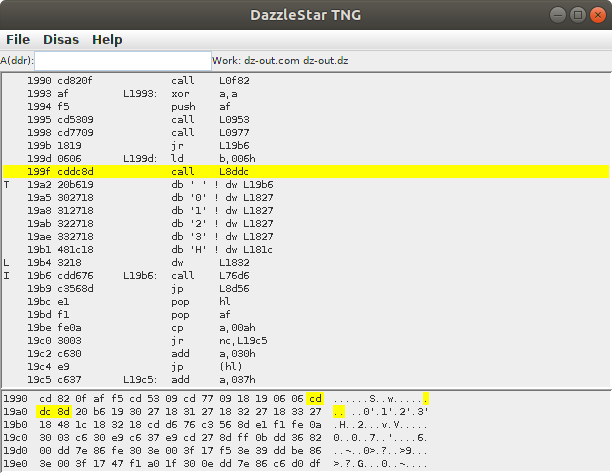
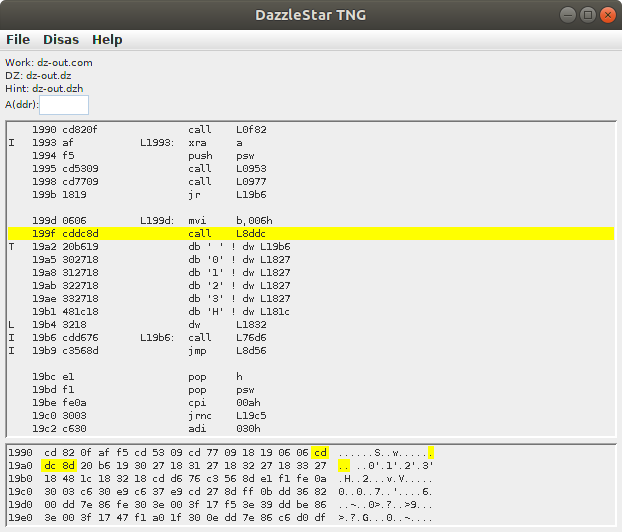
Cleanup layout

Changed region(s): [[0.0, 0.0, 1.0, 1.0], [0.2173, 0.5624, 0.2484, 0.592]]

diff --git a/dz/docs/dzmenu.html b/dz/docs/dzmenu.html
@@ -45,7 +45,7 @@ See <A HREF="dzhints.html">Hint Syntax</A>.
 <DT>File->Quit</DT>
 <DD>Discards any current disassembly and exits the program.
 </DD>
-
+<P>
 <DT>Disas->Scan from here</DT>
 <DD>(Re)Start auto-code scan from current location.</DD>
 <DT>Disas->Scan Hints</DT>
@@ -73,7 +73,7 @@ current breaks, building a new symbol table.
 Menu reflects the opposite of the current mnemonics, i.e.
 what the mnemonics will be changed to.
 </DD>
-
+<P>
 <DT>Help->About</DT>
 <DD>Display basic information and credits
 <DT>Help->Show Help</DT>

diff --git a/dz/DazzleStar.java b/dz/DazzleStar.java
@@ -63,7 +63,9 @@ public class DazzleStar implements DZCodePainter, DZDumpPainter, Memory,
 	DZDumpPane dump;
 	Font font;
 	JTextField dest;
-	JLabel stat;
+	JLabel statCom;
+	JLabel statDZ;
+	JLabel statHint;
 	JPanel src_pan;
 	JTextField src_pat;
 	JRadioButton src_hex;
@@ -169,6 +171,16 @@ public class DazzleStar implements DZCodePainter, DZDumpPainter, Memory,
 		frame.getContentPane().setName("DazzleStar TNG");
 		frame.setDefaultCloseOperation(JFrame.EXIT_ON_CLOSE); // TODO: save!
 		frame.addKeyListener(this);
+		GridBagLayout gb = new GridBagLayout();
+		GridBagConstraints gc = new GridBagConstraints();
+		gc.fill = GridBagConstraints.NONE;
+		gc.gridx = 0;
+		gc.gridy = 0;
+		gc.weightx = 0;
+		gc.weighty = 0;
+		gc.gridwidth = 1;
+		gc.gridheight = 1;
+		gc.anchor = GridBagConstraints.WEST;
 		// This allows TAB to be sent
 		frame.setFocusTraversalKeysEnabled(false);
 		java.net.URL url = this.getClass().getResource("docs/dzhelp.html");
@@ -246,7 +258,13 @@ public class DazzleStar implements DZCodePainter, DZDumpPainter, Memory,
 		jobActive(false);
 		// This is the main container of everything (exc. menus)
 		JPanel pan = new JPanel();
-		pan.setLayout(new BoxLayout(pan, BoxLayout.Y_AXIS));
+		pan.setLayout(gb);
+		JPanel pn = new JPanel();
+		pn.setPreferredSize(new Dimension(5, 5));
+		gb.setConstraints(pn, gc);
+		pan.add(pn);
+		++gc.gridx;
+		++gc.gridy;
 
 		// TODO: get Properties...
 		hilite = Color.yellow;
@@ -284,30 +302,66 @@ public class DazzleStar implements DZCodePainter, DZDumpPainter, Memory,
 		dest.setEnabled(false);
 		dest.setFont(font2);
 		dest.addActionListener(this);
-		stat = new JLabel();
-		stat.setPreferredSize(new Dimension(400, 20));
-		stat.setFont(font2);
+		statCom = new JLabel("Work:");
+		//statCom.setPreferredSize(new Dimension(300, 20));
+		statCom.setFont(font2);
+		statDZ = new JLabel("DZ:");
+		//statDZ.setPreferredSize(new Dimension(300, 20));
+		statDZ.setFont(font2);
+		statHint = new JLabel("Hint:");
+		//statHint.setPreferredSize(new Dimension(300, 20));
+		statHint.setFont(font2);
+		gb.setConstraints(statCom, gc);
+		pan.add(statCom);
+		++gc.gridy;
+		gb.setConstraints(statDZ, gc);
+		pan.add(statDZ);
+		++gc.gridy;
+		gb.setConstraints(statHint, gc);
+		pan.add(statHint);
+		++gc.gridy;
+		pn = new JPanel();
 		JLabel lb = new JLabel("A(ddr):");
 		lb.setFont(font2);
-		JPanel pn = new JPanel();
 		pn.setLayout(new BoxLayout(pn, BoxLayout.X_AXIS));
 		pn.add(lb);
 		pn.add(dest);
-		pn.add(stat);
+		gb.setConstraints(pn, gc);
 		pan.add(pn);
+		++gc.gridy;
 
+		pn = new JPanel();
+		pn.setPreferredSize(new Dimension(5, 5));
+		gb.setConstraints(pn, gc);
+		pan.add(pn);
+		++gc.gridy;
 		code = new DZCodePane(this);
 		code.setFont(font);
 		setupFont();	// needs 'code' JPanel
 		code.setPreferredSize(new Dimension(_fw * ln_width + 2 * bd_width,
 						_fh * clines + 2 * bd_width));
+		gb.setConstraints(code, gc);
+		pan.add(code);
+		++gc.gridy;
+		pn = new JPanel();
+		pn.setPreferredSize(new Dimension(5, 5));
+		gb.setConstraints(pn, gc);
+		pan.add(pn);
+		++gc.gridy;
 		dump = new DZDumpPane(this);
 		dump.setFont(font);
 		dump.setPreferredSize(new Dimension(_fw * ln_width + 2 * bd_width,
 						_fh * dlines + 2 * bd_width));
-		pan.add(code);
+		gb.setConstraints(dump, gc);
 		pan.add(dump);
+		++gc.gridy;
 		frame.add(pan);
+
+		++gc.gridx;
+		pn = new JPanel();
+		pn.setPreferredSize(new Dimension(5, 5));
+		gb.setConstraints(pn, gc);
+		pan.add(pn);
 		// done setup on frame...
 		frame.pack();
 		frame.setVisible(true);
@@ -427,7 +481,7 @@ public class DazzleStar implements DZCodePainter, DZDumpPainter, Memory,
 		f.close();
 		comFile = com;
 		statBase = String.format("Work: %s", com.getName());
-		stat.setText(statBase);
+		statCom.setText(statBase);
 		base = 0x0100;
 		end = base + obj.length;
 		prevs.clear();
@@ -453,9 +507,12 @@ public class DazzleStar implements DZCodePainter, DZDumpPainter, Memory,
 		setExts();
 		File dz = new File(basePath + dzExt);
 		if (dz.exists()) {
-			loadDZ(dz);	// resets statBase...
+			loadDZ(dz);
 		}
-		// TODO: auto-load hints?
+		dz = new File(basePath + hintExt);
+		if (dz.exists()) {
+			loadHints(dz);
+		}
 		jobActive(true);
 		setCodeWin(base);
 		setDumpWin(base);
@@ -1523,8 +1580,7 @@ if (orphaned(a)) t += '!'; else t += ' ';
 			}
 		}
 		ps.close();
-		statBase = String.format("Work: %s %s", comFile.getName(), dz.getName());
-		stat.setText(statBase + " Saved");
+		statDZ.setText("DZ: " + dz.getName() + " Saved");
 	}
 
 	private void generateHints(File dzh) throws Exception {
@@ -1562,7 +1618,7 @@ if (orphaned(a)) t += '!'; else t += ' ';
 			ps.format("*%04x,%s\n", a, h);
 		}
 		ps.close();
-		// TODO: update status line?
+		statHint.setText("Hint: " + dzh.getName() + " Saved");
 	}
 
 	private boolean processDZ(int c, String s) {
@@ -1768,8 +1824,7 @@ if (orphaned(a)) t += '!'; else t += ' ';
 		}
 		resetBreaks(base, true);
 		setCursor(base);
-		statBase = String.format("Work: %s %s", comFile.getName(), dz.getName());
-		stat.setText(statBase);
+		statDZ.setText("DZ: " + dz.getName());
 	}
 
 	// TODO: cummulative? or start from scratch?
@@ -1806,7 +1861,7 @@ if (orphaned(a)) t += '!'; else t += ' ';
 		resetBreaks(base, true);
 		// TODO: preserve current location?
 		setCursor(base);
-		// TODO: indicate hints loaded...
+		statHint.setText("Hint: " + in.getName());
 		if (codes.size() > 0) {
 			mi_sch.setEnabled(true);
 		}
@@ -1914,7 +1969,7 @@ if (orphaned(a)) t += '!'; else t += ' ';
 		}
 		ps.print("\tend\n");
 		ps.close();
-		stat.setText(statBase + " ASM saved");
+		statCom.setText(statBase + " ASM Saved");
 	}
 
 	private void generatePRN(File prn, int first, int last) throws Exception {
@@ -1980,7 +2035,7 @@ if (orphaned(a)) t += '!'; else t += ' ';
 			a += n;
 		}
 		ps.close();
-		stat.setText(statBase + " PRN saved");
+		statCom.setText(statBase + " PRN Saved");
 	}
 
 	// Search for byte pattern.
